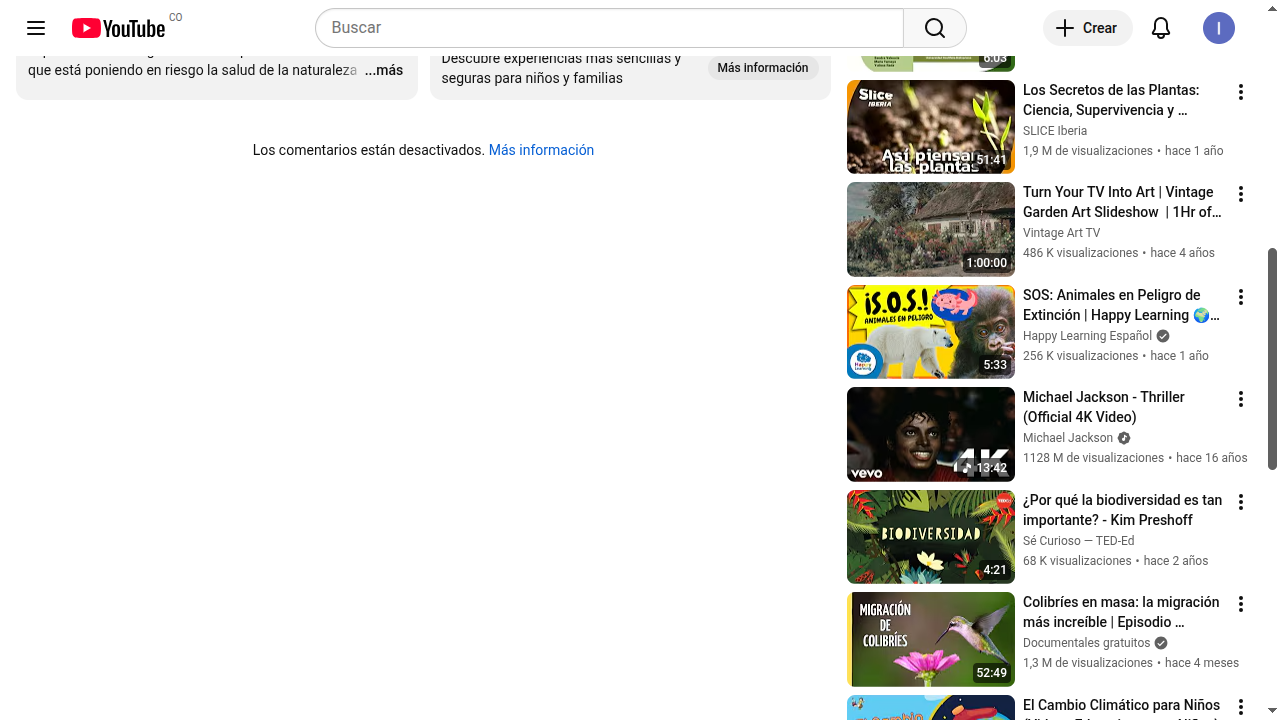
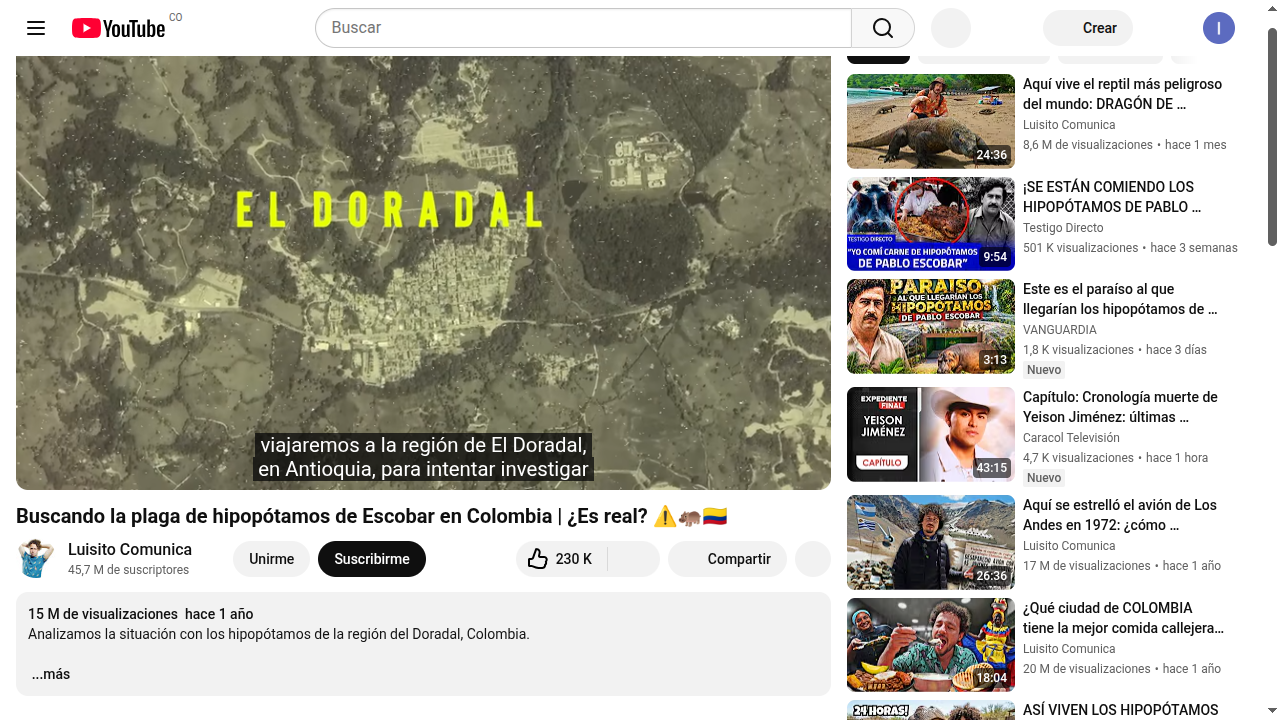
chore: auto-commit pending changes before edit
Status:
  modificados:     debug_error.png
  modificados:     src/utils/sanitize_filename.ts
  modificados:     src/web/youtube/video_scraper.ts

diff --git a/src/utils/sanitize_filename.ts b/src/utils/sanitize_filename.ts
@@ -1,15 +1,17 @@
-
 /**
- * Strips reserved or illegal characters from a string to create a safe file name.
+ * Strips reserved or illegal characters and emojis from a string,
+ * and replaces spaces with underscores to create a safe file name.
  *
  * **Logic**:
- * Uses a regex to identify characters like `\`, `/`, `*`, `?`, `"`, `<`, `>`, and `|`
- * (which are forbidden in Windows and some other file systems) and replaces them
- * with an empty string. Finally, it trims trailing or leading spaces.
+ * - Uses a regex to identify characters like `\`, `/`, `*`, `?`, `"`, `<`, `>`, and `|`
+ *   (which are forbidden in Windows and some other file systems) and removes them.
+ * - Uses a Unicode property escape regex to identify and remove emojis.
+ * - Trims trailing or leading spaces to prevent edge underscores.
+ * - Replaces remaining spaces (or consecutive spaces) with a single underscore.
  *
  * @example
- * const safeName = sanitizeFilename("My Video: 100% Awesome? <Look!>");
- * // Returns: "My Video 100% Awesome Look!"
+ * const safeName = sanitizeFilename("My Video: 100% Awesome? 🚀 <Look!>  ");
+ * // Returns: "My_Video_100%_Awesome_Look!"
  *
  * @param {string} filename - The original, un-sanitized string.
  * @returns {string} The sanitized string safe for OS file operations.
@@ -17,7 +19,19 @@
 export function sanitizeFilename(
   filename: string
 ): string {
-  return filename.replace(
-    /[\\/*?:"<>|]/g, ''
-  ).trim();
+  return filename
+    // 1. Remove illegal OS characters
+    .replace(
+      /[\\/*?:"<>|]/g, ''
+    )
+    // 2. Remove emojis (requires the 'u' flag for unicode matching)
+    .replace(
+      /[\p{Extended_Pictographic}\u{FE0F}\u{200D}]/gu, ''
+    )
+    // 3. Trim outer whitespace first so they don't become underscores
+    .trim()
+    // 4. Replace single or consecutive spaces with a single underscore
+    .replace(
+      /\s+/g, '_'
+    );
 }

diff --git a/src/web/youtube/video_scraper.ts b/src/web/youtube/video_scraper.ts
@@ -545,7 +545,7 @@ async function expandAllReplies(
       clicked += 1;
     } catch ( e ) {
       console.log(
-        e 
+        e
       );
       // Catch individual button failures silently to maintain the loop
     }
@@ -1158,8 +1158,12 @@ if ( args[ 1 ] && !isNaN(
   limitArg = parseInt(
     args[ 1 ], 10
   );
+
 }
 
+console.log(
+  limitArg
+);
 const isHeadless = args.includes(
   '--headless'
 );